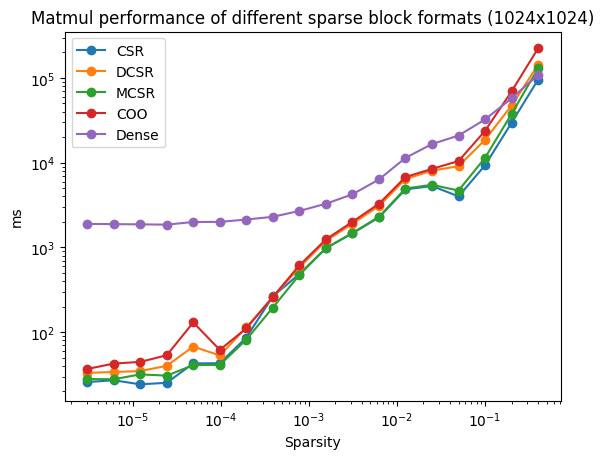
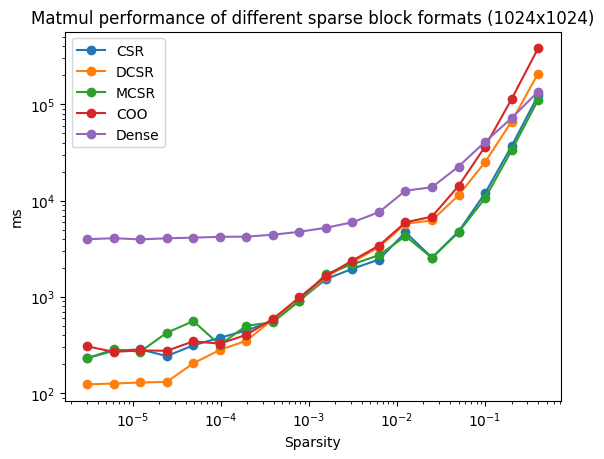
Make performance tests independent of maven test-framework

diff --git a/src/test/java/org/apache/sysds/performance/Main.java b/src/test/java/org/apache/sysds/performance/Main.java
@@ -19,6 +19,7 @@
 
 package org.apache.sysds.performance;
 
+import org.antlr.v4.runtime.atn.StarLoopEntryState;
 import org.apache.sysds.performance.compression.IOBandwidth;
 import org.apache.sysds.performance.compression.SchemaTest;
 import org.apache.sysds.performance.compression.Serialize;
@@ -30,6 +31,10 @@ import org.apache.sysds.performance.generators.FrameTransformFile;
 import org.apache.sysds.performance.generators.GenMatrices;
 import org.apache.sysds.performance.generators.IGenerate;
 import org.apache.sysds.performance.generators.MatrixFile;
+import org.apache.sysds.performance.matrix.MatrixMulPerformance;
+import org.apache.sysds.performance.matrix.MatrixStorage;
+import org.apache.sysds.runtime.data.SparseBlock;
+import org.apache.sysds.runtime.data.SparseBlockMCSR;
 import org.apache.sysds.runtime.frame.data.FrameBlock;
 import org.apache.sysds.runtime.matrix.data.MatrixBlock;
 import org.apache.sysds.runtime.util.CommonThreadPool;
@@ -99,6 +104,18 @@ public class Main {
 				break;
 			case 16:
 				run16(args);
+				break;
+			case 1000:
+				run1000(args);
+				break;
+			case 1001:
+				run1001(args);
+				break;
+			case 1002:
+				run1002(args);
+				break;
+			case 1003:
+				run1003(args);
 				break;
 			default:
 				break;
@@ -183,6 +200,125 @@ public class Main {
 		int len = Integer.parseInt(args[1]);
 		MatrixBlock mb = TestUtils.ceil(TestUtils.generateTestMatrixBlock(len, len, 0, 100, 0.01, len + 1));
 		System.out.println(mb);
+	}
+
+	private static void run1000(String[] args) {
+		MatrixMulPerformance perf;
+		if (args.length < 3) {
+			perf = new MatrixMulPerformance();
+		} else {
+			// ... <rl> <cl> [resolution] [maxSparsity] [resolution] [warmupRuns] [repetitions]
+			int rl = Integer.parseInt(args[1]);
+			int cl = Integer.parseInt(args[2]);
+			int resolution = 18;
+			float maxSparsity = .4f;
+			int warmupRuns = 30;
+			int repetitions = 100;
+
+			if (args.length > 3)
+				resolution = Integer.parseInt(args[3]);
+			if (args.length > 4)
+				maxSparsity = Float.parseFloat(args[4]);
+			if (args.length > 5)
+				warmupRuns = Integer.parseInt(args[5]);
+			if (args.length > 6)
+				repetitions = Integer.parseInt(args[6]);
+
+			perf = new MatrixMulPerformance(rl, cl, warmupRuns, repetitions, resolution, maxSparsity, 2f);
+		}
+
+		perf.testSparseFormat(null, null);
+		perf.testSparseFormat(SparseBlock.Type.MCSR, SparseBlock.Type.MCSR);
+		perf.testSparseFormat(SparseBlock.Type.CSR, SparseBlock.Type.CSR);
+		perf.testSparseFormat(SparseBlock.Type.COO, SparseBlock.Type.COO);
+		perf.testSparseFormat(SparseBlock.Type.DCSR, SparseBlock.Type.DCSR);
+	}
+
+	private static void run1001(String[] args) {
+		// ... [rl] [cl] [repetitions] [resolution] [maxSparsity]
+		MatrixStorage ms;
+		int rl = 1024;
+		int cl = 1024;
+		int repetitions = 10;
+		int resolution = 18;
+		float maxSparsity = 0.4f;
+
+		if (args.length > 1)
+			rl = Integer.parseInt(args[1]);
+		if (args.length > 2)
+			cl = Integer.parseInt(args[2]);
+		if (args.length > 3)
+			repetitions = Integer.parseInt(args[3]);
+		if (args.length > 4)
+			resolution = Integer.parseInt(args[4]);
+		if (args.length > 5)
+			maxSparsity = Float.parseFloat(args[5]);
+
+		ms = new MatrixStorage(resolution, 2f, maxSparsity);
+
+		ms.testSparseFormat(null, rl, cl, repetitions);
+		ms.testSparseFormat(SparseBlock.Type.MCSR, rl, cl, repetitions);
+		ms.testSparseFormat(SparseBlock.Type.CSR, rl, cl, repetitions);
+		ms.testSparseFormat(SparseBlock.Type.COO, rl, cl, repetitions);
+		ms.testSparseFormat(SparseBlock.Type.DCSR, rl, cl, repetitions);
+	}
+
+	private static void run1002(String[] args) {
+		// ... [sparsity] [rl] [minCl] [maxCl] [resolution] [repetitions]
+		MatrixStorage ms = new MatrixStorage();
+		float sparsity = 0.1f;
+		int rl = 1024;
+		int minCl = 50;
+		int maxCl = 2048;
+		int resolution = 21;
+		int repetitions = 10;
+
+		if (args.length > 1)
+			sparsity = Float.parseFloat(args[1]);
+		if (args.length > 2)
+			rl = Integer.parseInt(args[2]);
+		if (args.length > 3)
+			minCl = Integer.parseInt(args[3]);
+		if (args.length > 4)
+			maxCl = Integer.parseInt(args[4]);
+		if (args.length > 5)
+			resolution = Integer.parseInt(args[5]);
+		if (args.length > 6)
+			repetitions = Integer.parseInt(args[6]);
+
+		ms.testChangingDims(null, sparsity, rl, minCl, maxCl, resolution, repetitions);
+		ms.testChangingDims(SparseBlock.Type.MCSR, sparsity, rl, minCl, maxCl, resolution, repetitions);
+		ms.testChangingDims(SparseBlock.Type.CSR, sparsity, rl, minCl, maxCl, resolution, repetitions);
+		ms.testChangingDims(SparseBlock.Type.COO, sparsity, rl, minCl, maxCl, resolution, repetitions);
+		ms.testChangingDims(SparseBlock.Type.DCSR, sparsity, rl, minCl, maxCl, resolution, repetitions);
+	}
+
+	private static void run1003(String[] args) {
+		// ... [sparsity] [resolution] [repetitions] [maxRowColRatio] [numMatrixEntries]
+		MatrixStorage ms = new MatrixStorage();
+
+		float sparsity = 0.1f;
+		int resolution = 21;
+		int repetitions = 10;
+		float maxRowColRatio = 10f;
+		int numEntries = 1024 * 1024;
+
+		if (args.length > 1)
+			sparsity = Float.parseFloat(args[1]);
+		if (args.length > 2)
+			resolution = Integer.parseInt(args[2]);
+		if (args.length > 3)
+			repetitions = Integer.parseInt(args[3]);
+		if (args.length > 4)
+			maxRowColRatio = Float.parseFloat(args[4]);
+		if (args.length > 5)
+			numEntries = Integer.parseInt(args[5]);
+
+		ms.testBalancedDims(null, sparsity, numEntries, resolution, maxRowColRatio, repetitions);
+		ms.testBalancedDims(SparseBlock.Type.MCSR, sparsity, numEntries, resolution, maxRowColRatio, repetitions);
+		ms.testBalancedDims(SparseBlock.Type.CSR, sparsity, numEntries, resolution, maxRowColRatio, repetitions);
+		ms.testBalancedDims(SparseBlock.Type.COO, sparsity, numEntries, resolution, maxRowColRatio, repetitions);
+		ms.testBalancedDims(SparseBlock.Type.DCSR, sparsity, numEntries, resolution, maxRowColRatio, repetitions);
 	}
 
 	public static void main(String[] args) {

diff --git a/src/test/java/org/apache/sysds/performance/matrix/MatrixStorage.java b/src/test/java/org/apache/sysds/performance/matrix/MatrixStorage.java
@@ -27,18 +27,25 @@ import org.apache.sysds.runtime.data.SparseBlockDCSR;
 import org.apache.sysds.runtime.data.SparseBlockMCSR;
 import org.apache.sysds.runtime.matrix.data.MatrixBlock;
 import org.apache.sysds.runtime.util.DataConverter;
-import org.apache.sysds.test.AutomatedTestBase;
 import org.apache.sysds.test.TestUtils;
-import org.junit.Test;
 
-public class MatrixStorage extends AutomatedTestBase {
+public class MatrixStorage {
 
-	private static final int resolution = 18;
-	private static final float resolutionDivisor = 2f;
-	private static final float maxSparsity = .2f;
-	private static final float dimTestSparsity = .4f;
+	private final int resolution;
+	private final float resolutionDivisor;
+	private final float maxSparsity;
 
-	static float[] sparsityProvider() {
+	public MatrixStorage() {
+		this(18, 2f, .2f);
+	}
+
+	public MatrixStorage(int resolution, float resolutionDivisor, float maxSparsity) {
+		this.resolution = resolution;
+		this.resolutionDivisor = resolutionDivisor;
+		this.maxSparsity = maxSparsity;
+	}
+
+	float[] sparsityProvider() {
 		float[] sparsities = new float[resolution];
 		float currentValue = maxSparsity;
 
@@ -50,22 +57,22 @@ public class MatrixStorage extends AutomatedTestBase {
 		return sparsities;
 	}
 
-	static int[][] dimsProvider(int rl, int maxCl, int minCl, int resolution) {
+	int[][] dimsProvider(int rl, int maxCl, int minCl, int resolution) {
 		int[][] dims = new int[2][resolution];
 		for (int i = 0; i < resolution; i++) {
 			dims[0][i] = rl;
-			dims[1][i] = (int)(minCl + i * ((maxCl-minCl)/((float)resolution)));
+			dims[1][i] = (int)(minCl + i * ((maxCl-minCl)/((float)resolution-1)));
 		}
 
 		return dims;
 	}
 
-	static int[][] balancedDimsProvider(int numEntries, float[] ratio, float qMax) {
+	int[][] balancedDimsProvider(int numEntries, float[] ratio, float qMax) {
 		int resolution = ratio.length;
 		int[][] dims = new int[2][resolution];
 
 		for (int i = 0; i < resolution; i++) {
-			ratio[i] = -qMax + 2 * qMax * (i / ((float)resolution));
+			ratio[i] = -qMax + 2 * qMax * (i / ((float)resolution-1));
 			if (ratio[i] < 0) {
 				// Then columns are bigger than rows
 				// r * c = numEntries
@@ -123,11 +130,6 @@ public class MatrixStorage extends AutomatedTestBase {
 
 		sb.append("]");
 		return sb.toString();
-	}
-
-	@Override
-	public void setUp() {
-		TestUtils.clearAssertionInformation();
 	}
 
 	/*@Test
@@ -205,8 +207,8 @@ public class MatrixStorage extends AutomatedTestBase {
 		testBalancedDims(SparseBlock.Type.DCSR, dimTestSparsity, 1024*1024, 30, 10, 10);
 	}*/
 
-	private void testSparseFormat(SparseBlock.Type btype, int rl, int cl, int repetitions) {
-		float[] sparsities = MatrixStorage.sparsityProvider();
+	public void testSparseFormat(SparseBlock.Type btype, int rl, int cl, int repetitions) {
+		float[] sparsities = sparsityProvider();
 		long[][] results = new long[repetitions][sparsities.length];
 
 		for (int repetition = 0; repetition < repetitions; repetition++)
@@ -218,8 +220,8 @@ public class MatrixStorage extends AutomatedTestBase {
 		System.out.println("memory" + (btype == null ? "Dense" : btype.name()) + " =  " + printAsPythonList(buildAverage(results)));
 	}
 
-	private void testChangingDims(SparseBlock.Type btype, double sparsity, int rl, int minCl, int maxCl, int resolution, int repetitions) {
-		int[][] dims = MatrixStorage.dimsProvider(rl, minCl, maxCl, resolution);
+	public void testChangingDims(SparseBlock.Type btype, double sparsity, int rl, int minCl, int maxCl, int resolution, int repetitions) {
+		int[][] dims = dimsProvider(rl, minCl, maxCl, resolution);
 		long[][] results = new long[repetitions][resolution];
 
 		for (int repetition = 0; repetition < repetitions; repetition++)
@@ -231,9 +233,9 @@ public class MatrixStorage extends AutomatedTestBase {
 		System.out.println("dimMemory" + (btype == null ? "Dense" : btype.name()) + " =  " + printAsPythonList(buildAverage(results)));
 	}
 
-	private void testBalancedDims(SparseBlock.Type btype, double sparsity, int numEntries, int resolution, float qMax /*The maximum / minimum row-column ratio*/, int repetitions) {
+	public void testBalancedDims(SparseBlock.Type btype, double sparsity, int numEntries, int resolution, float qMax /*The maximum / minimum row-column ratio*/, int repetitions) {
 		float[] ratios = new float[resolution];
-		int[][] dims = MatrixStorage.balancedDimsProvider(numEntries, ratios, qMax);
+		int[][] dims = balancedDimsProvider(numEntries, ratios, qMax);
 		long[][] results = new long[repetitions][resolution];
 
 		for (int repetition = 0; repetition < repetitions; repetition++)
@@ -261,7 +263,7 @@ public class MatrixStorage extends AutomatedTestBase {
 			if (btype == null)
 				return Math.min(Long.MAX_VALUE, (long) DenseBlockFP64.estimateMemory(rl, cl));
 
-			double[][] A = getRandomMatrix(rl, cl, -10, 10, sparsity, 7654321);
+			double[][] A = TestUtils.generateTestMatrix(rl, cl, -10, 10, sparsity, 7654321);
 
 			MatrixBlock mbtmp = DataConverter.convertToMatrixBlock(A);
 

diff --git a/src/test/java/org/apache/sysds/performance/matrix/MatrixMulPerformance.java b/src/test/java/org/apache/sysds/performance/matrix/MatrixMulPerformance.java
@@ -27,28 +27,36 @@ import org.apache.sysds.runtime.data.SparseBlockMCSR;
 import org.apache.sysds.runtime.instructions.InstructionUtils;
 import org.apache.sysds.runtime.matrix.data.MatrixBlock;
 import org.apache.sysds.runtime.util.DataConverter;
-import org.apache.sysds.test.AutomatedTestBase;
 import org.apache.sysds.test.TestUtils;
 
 import java.util.Arrays;
 
-public class MatrixMulPerformance extends AutomatedTestBase {
+public class MatrixMulPerformance {
 
-	private static final int _rl = 1024;
-	private static final int _cl = 1024;
+	private final int _rl;
+	private final int _cl;
 
-	private static final int warmupRuns = 15;
-	private static final int repetitions = 50;
-	private static final int resolution = 18;
-	private static final float resolutionDivisor = 2f;
-	private static final float maxSparsity = .4f;
+	private final int warmupRuns;
+	private final int repetitions;
+	private final int resolution;
+	private final float resolutionDivisor;
+	private final float maxSparsity;
 
-	@Override
-	public void setUp() {
-		TestUtils.clearAssertionInformation();
+	public MatrixMulPerformance() {
+		this(1024, 1024, 15, 50, 18, .4f, 2f);
 	}
 
-	static float[] sparsityProvider() {
+	public MatrixMulPerformance(int rl, int cl, int warmupRuns, int repetitions, int resolution, float maxSparsity, float stepDivisor) {
+		_rl = rl;
+		_cl = cl;
+		this.warmupRuns = warmupRuns;
+		this.repetitions = repetitions;
+		this.resolution = resolution;
+		this.resolutionDivisor = stepDivisor;
+		this.maxSparsity = maxSparsity;
+	}
+
+	float[] sparsityProvider() {
 		float[] sparsities = new float[resolution];
 		float currentValue = maxSparsity;
 
@@ -89,33 +97,29 @@ public class MatrixMulPerformance extends AutomatedTestBase {
 		return sb.toString();
 	}
 
-	/*@Test
-	public void testDense2Dense() {
+	/*public void testDense2Dense() {
 		testSparseFormat(null, null);
 	}
 
-	@Test
 	public void testCSR2CSR() {
 		testSparseFormat(SparseBlock.Type.CSR, SparseBlock.Type.CSR);
 	}
 
-	@Test
 	public void testDCSR2DCSR() {
 		testSparseFormat(SparseBlock.Type.DCSR, SparseBlock.Type.DCSR);
 	}
 
-	@Test
 	public void testMCSR2MCSR() {
 		testSparseFormat(SparseBlock.Type.MCSR, SparseBlock.Type.MCSR);
 	}
 
-	@Test
+
 	public void testCOO2COO() {
 		testSparseFormat(SparseBlock.Type.COO, SparseBlock.Type.COO);
 	}*/
 
-	private void testSparseFormat(SparseBlock.Type btype1, SparseBlock.Type btype2) {
-		float[] sparsities = MatrixMulPerformance.sparsityProvider();
+	public void testSparseFormat(SparseBlock.Type btype1, SparseBlock.Type btype2) {
+		float[] sparsities = this.sparsityProvider();
 		double[] avgNanosPerSparsity = new double[sparsities.length];
 		long[] results = new long[repetitions];
 		for (int sparsityIndex = 0; sparsityIndex < sparsities.length; sparsityIndex++) {
@@ -134,8 +138,8 @@ public class MatrixMulPerformance extends AutomatedTestBase {
 	}
 
 	private long runSparsityEstimateTest(SparseBlock.Type btype1, SparseBlock.Type btype2, float sparsity) {
-		double[][] A = getRandomMatrix(_rl, _cl, -10, 10, sparsity, 7654321);
-		double[][] B = getRandomMatrix(_rl, _cl, -10, 10, sparsity, 7654322);
+		double[][] A = TestUtils.generateTestMatrix(_rl, _cl, -10, 10, sparsity, 7654321);
+		double[][] B = TestUtils.generateTestMatrix(_rl, _cl, -10, 10, sparsity, 7654322);
 
 		MatrixBlock mbtmp1 = DataConverter.convertToMatrixBlock(A);
 		MatrixBlock mbtmp2 = DataConverter.convertToMatrixBlock(B);

diff --git a/docs/performance/SparseFormats.md b/docs/performance/SparseFormats.md
@@ -22,10 +22,9 @@ limitations under the License.
 This file contains a short evaluation of different sparse blocks. We included one dense block (DenseBlockFP64) as a baseline.
 
 ## Execution time
-The test regarding the execution time was implemented via maven tests (no dedicated benchmarking tools).
-Because of that, results may not be very accurate. We measured the performance of two matrices being multiplied, both of the corresponding block type.
-Before each measurement, we performed `15` warmup runs (performing `15` matrix multiplications to random matrices without measuring).
-Then, we measured the delta nanos of the operation below `50` times and took the average.
+We measured the performance of two matrices being multiplied, both of the corresponding block type.
+Before each measurement, we performed `30` warmup runs (performing `30` matrix multiplications to random matrices without measuring).
+Then, we measured the delta nanos of the operation below `100` times and took the average.
 For this, we selected a block size of `1024x1024`.
 
 ```java 
